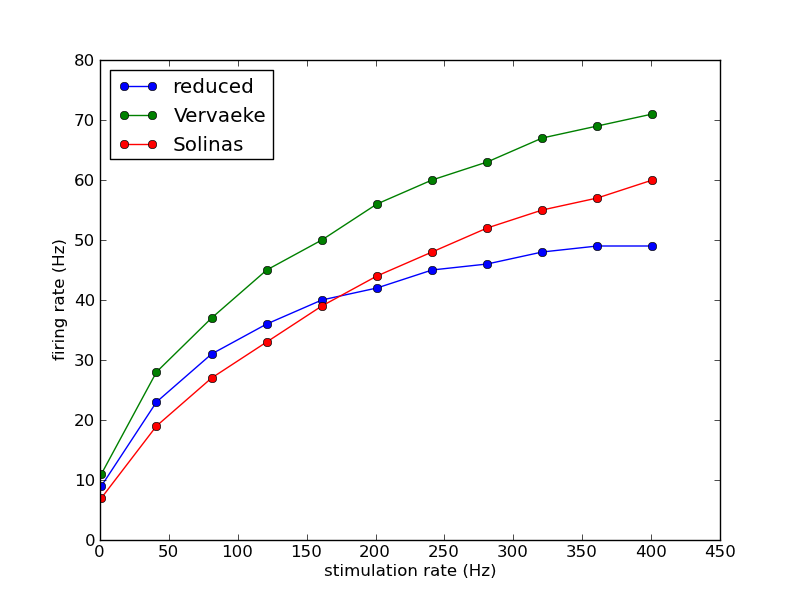
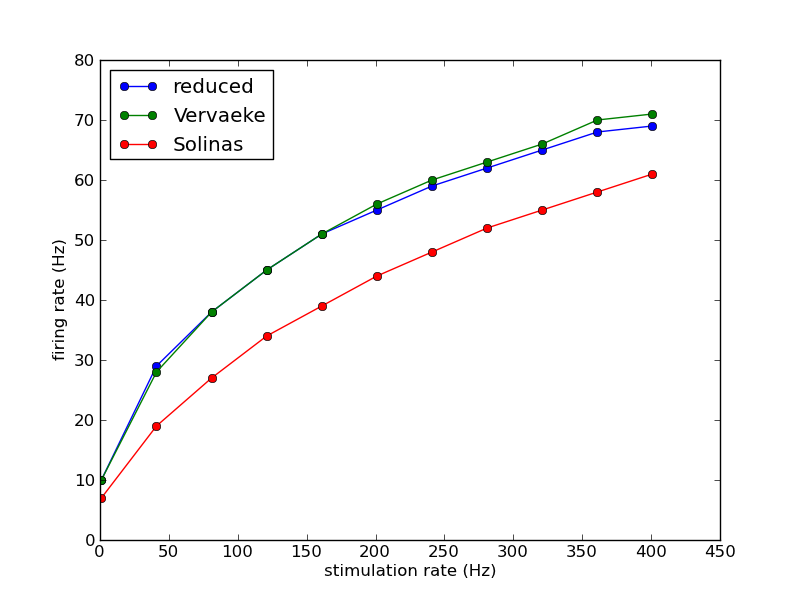
Reduced the basolateral dendrites' size.
This results in a better match for rate-coded I/O relationship for
mossy fiber stimulation, but on the other hand the cell is now
responding too much to apical stimulation. Also, the spike shape is
less bad (the size of the little after-spike hump has decreased).

diff --git a/neuroConstruct/scripts/rate_IO.py b/neuroConstruct/scripts/rate_IO.py
@@ -21,7 +21,7 @@ project_path = '../GJGolgi_ReducedMorph.ncx'
 project_file = File(project_path)
 project = pm.loadProject(project_file)
 
-sim_config_name = 'IO_synaptic_stimulation_mf'
+sim_config_name = 'IO_synaptic_stimulation_pf'
 
 sim_config = project.simConfigInfo.getSimConfig(sim_config_name)
 project.neuronSettings.setNoConsole()
@@ -57,7 +57,7 @@ for rate in stim_rate_range:
     if compile_success:
 	print "Submitting simulation reference " + sim_ref
 	pm.doRunNeuron(sim_config)
-	time.sleep(5) # Wait for sim to be kicked off
+	time.sleep(2) # Wait for sim to be kicked off
 	if not sim_config.getMpiConf().isRemotelyExecuted():
 	    # if running locally, never have more than one sim running
 	    # at the same time
@@ -77,7 +77,7 @@ while sim_refs and sim_config.getMpiConf().isRemotelyExecuted():
     subprocess.call([pullsimfile_path])
     if not os.path.exists(timefile_path):
 	sim_refs.append(sim_ref)
-    time.sleep(5)
+    time.sleep(2)
 
 print('batch reference a' + timestamp)
 System.exit(0)
